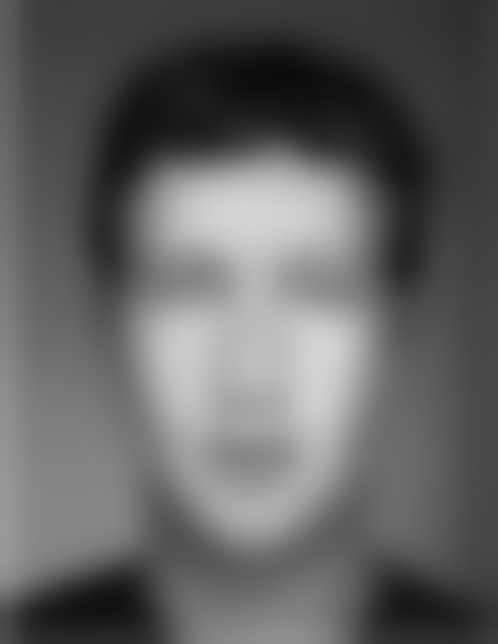
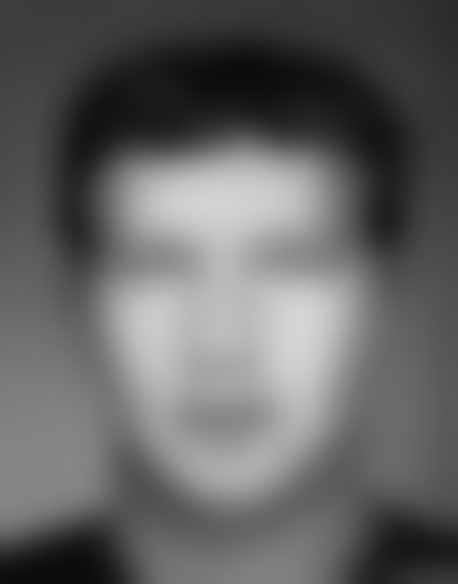
local energy + color

diff --git a/main.py b/main.py
@@ -2,7 +2,8 @@ import sys
 import utils
 import dense_correspondence
 import local_contrast_transfer
-
+import color_transfer
+import numpy
 import cv2
 
 
@@ -11,27 +12,55 @@ def main(arg1: str, arg2: str):
         input_img = utils.read_image(arg1)
         example_img = utils.read_image(arg2)
 
+        # backup da imagem pq deu errado sem isso e com isso tbm da, mass fica melhor
+        # o problema é q a camiseta do rapaz fica azul
+        input_img_color = input_img.copy()
+
+        # geometria e deformação
         output = dense_correspondence.dense_morph(input_img, example_img)
 
-        input_img = cv2.cvtColor(input_img, cv2.COLOR_BGR2GRAY)
-        example_img = cv2.cvtColor(example_img, cv2.COLOR_BGR2GRAY)
+        # tons de cinza
+        input_gray = cv2.cvtColor(input_img, cv2.COLOR_BGR2GRAY).astype(numpy.float32) / 255.0
+        example_gray = cv2.cvtColor(output, cv2.COLOR_BGR2GRAY).astype(numpy.float32) / 255.0
 
-        laplacian_stack_input, residual_input = (
-            local_contrast_transfer.create_laplacian_stacks(input_img, 7)
-        )
-        laplacian_stack_output, residual_output = (
-            local_contrast_transfer.create_laplacian_stacks(example_img, 7)
-        )
+        # pilhas laplacianas
+        stacks_input, residual_input = local_contrast_transfer.create_laplacian_stacks(input_gray, 7)
+        stacks_output, residual_output = local_contrast_transfer.create_laplacian_stacks(example_gray, 7)
 
-        utils.save_image(output, "data/output2.jpg")
-        utils.save_image(residual_output, "data/residual_output.jpg")
-        for i, layer in enumerate(laplacian_stack_output):
-            layer = cv2.convertScaleAbs(layer * 5, alpha=1.0, beta=128)
-            utils.save_image(layer, f"data/layer_{i}_output.jpg")
+        # energia local
+        energy_input = local_contrast_transfer.compute_local_energy(stacks_input)
+        energy_output = local_contrast_transfer.compute_local_energy(stacks_output)
+
+        # mapas de calor
+        new_stack = local_contrast_transfer.transfer_style(stacks_input, energy_input, energy_output)
+
+        # reconstrução do res do zuck pra iluminação base
+        final_result_gray = local_contrast_transfer.reconstruct_image(new_stack, residual_output)
+        gray_uint8 = (final_result_gray * 255).clip(0, 255).astype(numpy.uint8)
+        utils.save_image(gray_uint8, "data/final_result_gray.jpg")
+
+        # cor lab do zuck deformado (output)
+        final_result_color = color_transfer.apply_color_transfer(final_result_gray, output)
+
+        # tentativa FALHA de arrumar a cor da orelha
+        h, w = final_result_color.shape[:2]
+        input_resized = cv2.resize(input_img_color, (w, h))
+
+        mask = numpy.zeros((h, w), dtype=numpy.float32)
+        center_x, center_y = w // 2, h // 2
+        cv2.circle(mask, (center_x, center_y), int(min(h, w) * 0.45), 1.0, -1)
+        mask = cv2.GaussianBlur(mask, (0, 0), sigmaX=50, sigmaY=50)
+        mask_3ch = cv2.merge([mask, mask, mask])
+
+        final_blended = (final_result_color.astype(float) * mask_3ch +
+                         input_resized.astype(float) * (1.0 - mask_3ch)).astype(numpy.uint8)
+
+        # res finais
+        utils.save_image(final_blended, "data/final_result_blended.jpg")
+        utils.save_image(final_result_color, "data/final_result_lab.jpg")
 
     except Exception as e:
         import traceback
-
         traceback.print_exc()
         print(f"Erro: {e}")
 

diff --git a/local_contrast_transfer.py b/local_contrast_transfer.py
@@ -4,7 +4,7 @@ from typing import List, Tuple
 
 
 def create_laplacian_stacks(
-    image: cv2.typing.MatLike, n: int
+        image: cv2.typing.MatLike, n: int
 ) -> Tuple[List[cv2.typing.MatLike], cv2.typing.MatLike]:
     laplacian_stack = []
 
@@ -17,12 +17,89 @@ def create_laplacian_stacks(
             laplacian_stack.append(L0)
         else:
             Li = cv2.GaussianBlur(
-                image, (0, 0), sigmaX=sigma**i, sigmaY=sigma**i
+                image, (0, 0), sigmaX=sigma ** i, sigmaY=sigma ** i
             ) - cv2.GaussianBlur(
                 image, (0, 0), sigmaX=sigma ** (i + 1), sigmaY=sigma ** (i + 1)
             )
             laplacian_stack.append(Li)
 
-    residual = cv2.GaussianBlur(image, (0, 0), sigmaX=sigma**n, sigmaY=sigma**n)
+    residual = cv2.GaussianBlur(image, (0, 0), sigmaX=sigma ** n, sigmaY=sigma ** n)
 
     return laplacian_stack, residual
+
+
+def compute_local_energy(
+        laplacian_stack: List[cv2.typing.MatLike],
+) -> List[cv2.typing.MatLike]:
+
+    energy_stack = []
+
+    for level, layer in enumerate(laplacian_stack):
+        squared_layer = numpy.square(layer)
+
+        sigma_energy = 2 ** (level + 1)
+
+        energy = cv2.GaussianBlur(
+            squared_layer, (0, 0), sigmaX=sigma_energy, sigmaY=sigma_energy
+        )
+
+        energy = numpy.maximum(energy, 1e-6)
+
+        energy_stack.append(energy)
+
+    return energy_stack
+
+
+def _compute_robust_gain(
+        energy_in: cv2.typing.MatLike,
+        energy_ex: cv2.typing.MatLike,
+        level: int
+) -> cv2.typing.MatLike:
+
+    # constantes ideais do paper
+    EPSILON = 0.01 ** 2
+    THETA_H = 2.8
+    THETA_L = 0.9
+    BETA = 3.0
+
+    gain = numpy.sqrt(energy_ex / (energy_in + EPSILON))
+
+    robust_gain = numpy.clip(gain, THETA_L, THETA_H)
+
+    sigma_gain = BETA * (2 ** level)
+
+    robust_gain = cv2.GaussianBlur(robust_gain, (0, 0), sigmaX=sigma_gain, sigmaY=sigma_gain)
+
+    return robust_gain
+
+
+def transfer_style(
+        input_stack: list[cv2.typing.MatLike],
+        energy_in: list[cv2.typing.MatLike],
+        energy_ex: list[cv2.typing.MatLike]
+) -> Tuple[List[cv2.typing.MatLike], List[cv2.typing.MatLike]]:
+
+    output_stack = []
+
+    for level, layer_in in enumerate(input_stack):
+        gain_map = _compute_robust_gain(energy_in[level], energy_ex[level], level)
+
+        new_layer = layer_in * gain_map
+        output_stack.append(new_layer)
+
+    return output_stack
+
+
+def reconstruct_image(
+        laplacian_stack: list[cv2.typing.MatLike],
+        residual: cv2.typing.MatLike
+) -> cv2.typing.MatLike:
+
+    final_image = residual.copy()
+
+    for layer in laplacian_stack:
+        final_image += layer
+
+    final_image = numpy.clip(final_image, 0.0, 1.0)
+
+    return final_image

diff --git a/color_transfer.py b/color_transfer.py
@@ -1,0 +1,27 @@
+import cv2
+import numpy as np
+
+
+def apply_color_transfer(
+    final_luminance: cv2.typing.MatLike,
+    input_color_img: cv2.typing.MatLike
+) -> cv2.typing.MatLike:
+
+    h, w = final_luminance.shape[:2]
+    input_resized = cv2.resize(input_color_img, (w, h))
+
+    lab_example = cv2.cvtColor(input_resized, cv2.COLOR_BGR2LAB)
+
+    # l_in, a_in, b_in = cv2.split(lab_input)
+    _, a_ex, b_ex = cv2.split(lab_example)
+
+    if final_luminance.dtype != np.uint8:
+        l_new = (final_luminance * 255).clip(0, 255).astype(np.uint8)
+    else:
+        l_new = final_luminance
+
+    result_lab = cv2.merge([l_new, a_ex, b_ex])
+
+    result_rgb = cv2.cvtColor(result_lab, cv2.COLOR_LAB2BGR)
+
+    return result_rgb
